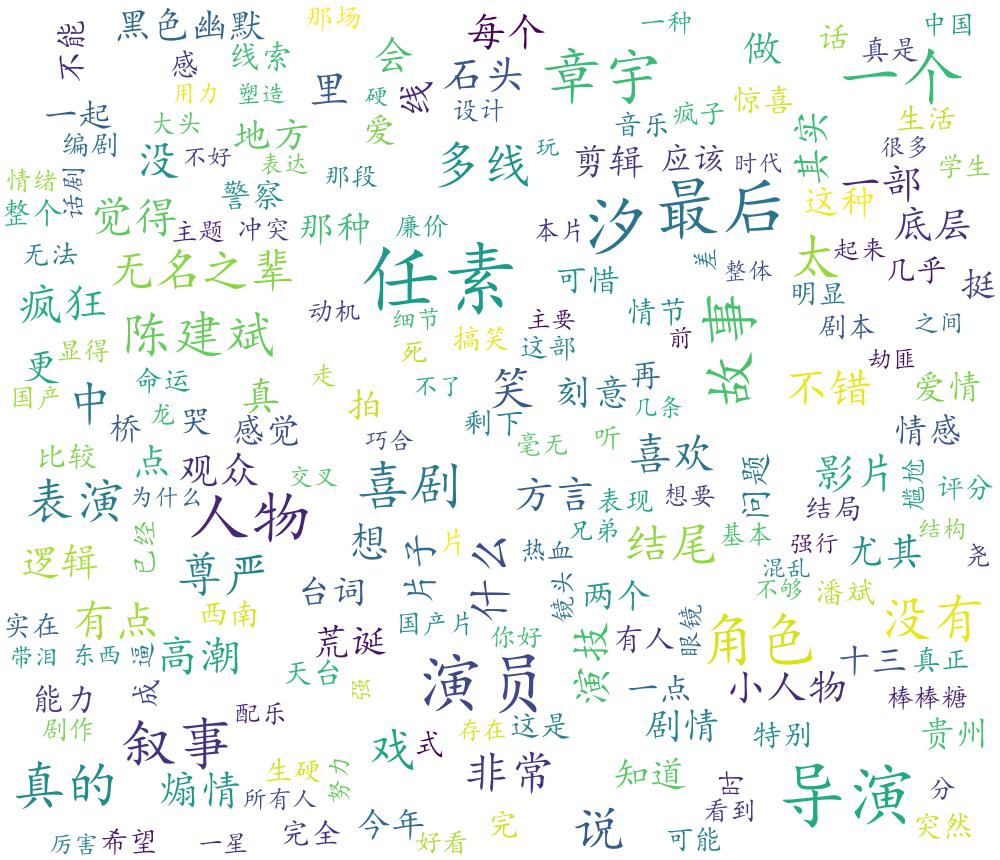
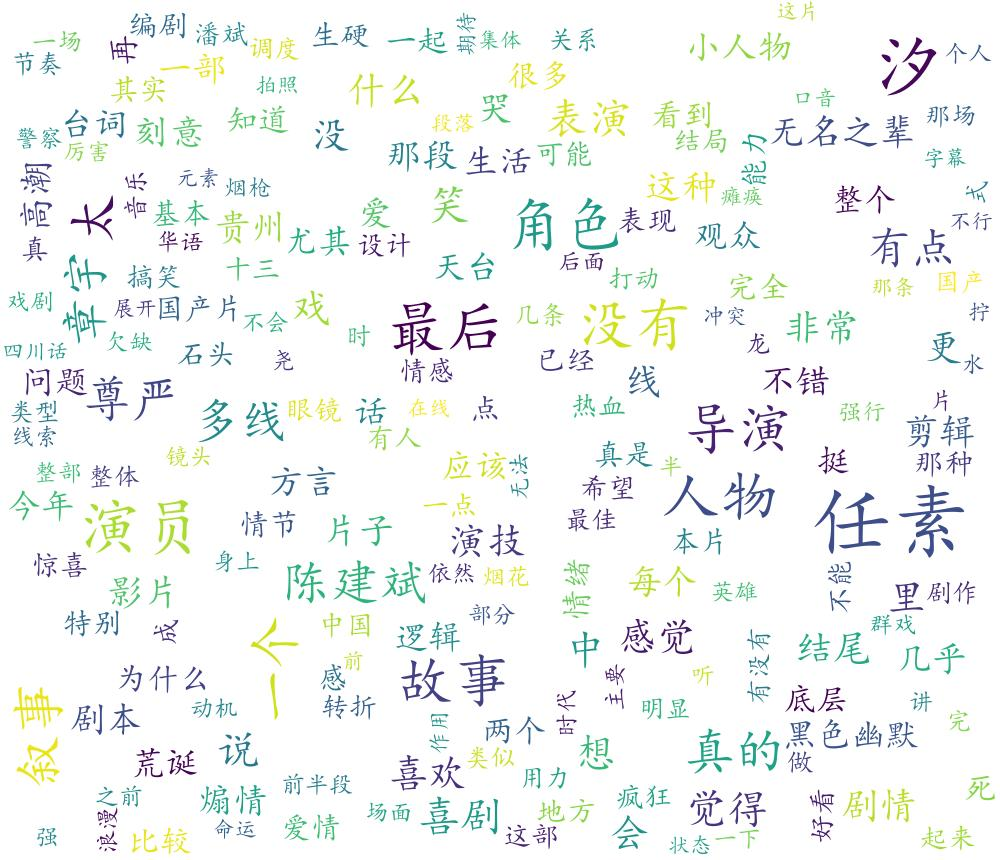
update

Changed region(s): [[0.0, 0.0, 1.0, 0.9977]]

diff --git a/douban_spider.py b/douban_spider.py
@@ -20,6 +20,7 @@ warnings.filterwarnings("ignore")
 
 # 抓取电影评论
 def getCommentsById(movieId, pageNum):
+    headers={'User-Agent':'Mozilla/5.0 (Windows NT 10.0; Win64; x64) AppleWebKit/537.36 (KHTML, like Gecko) Chrome/90.0.4430.212 Safari/537.36'}
     eachCommentList = []
     if pageNum > 0:
         start = (pageNum - 1) * 20
@@ -35,7 +36,7 @@ def getCommentsById(movieId, pageNum):
             + "&limit=20"
     )
     try:
-        resp = requests.get(requrl)
+        resp = requests.get(requrl, headers=headers)
         html_data = resp.content.decode("utf-8")
         soup = bs(html_data, "html.parser")
         comment_div_lits = soup.find_all("div", class_="comment")
@@ -86,12 +87,14 @@ def main(movieId, movieName):
         sep="t",
         names=["stopword"],
         encoding="utf-8",
+        error_bad_lines=False
     )
     words_df = words_df[~words_df.segment.isin(stopwords.stopword)]
-    # print(words_df)
+    print("*****")
+    print(words_df)
 
     # 统计词频
-    words_stat = words_df.groupby(by=["segment"])["segment"].agg({"计数": numpy.size})
+    words_stat = words_df.groupby(by=["segment"])["segment"].agg([("计数",numpy.size)])
     words_stat = words_stat.reset_index().sort_values(by=["计数"], ascending=False)
     print(words_stat)
 
@@ -128,4 +131,6 @@ if __name__ == "__main__":
     # main("27110296","无名之辈")
     # main("26874505", "人生果实")
     # main("26848645", "将夜")
-    main("25716096", "狗十三")
+    # main("25716096", "狗十三")
+    # main("35183042", "独行月球")
+    main("35360684", "新神榜杨戬")
